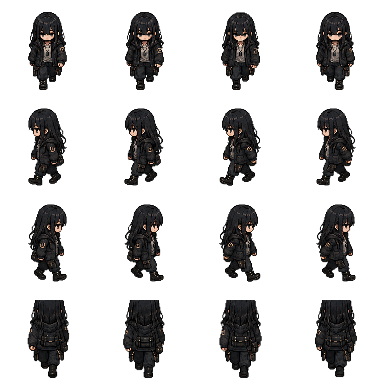
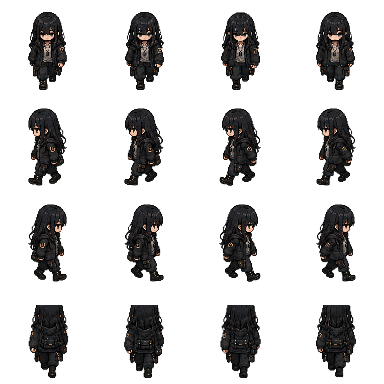
fix: scale back-facing YUI frames for headroom

diff --git a/tools/process_yui_sprite_sheet.py b/tools/process_yui_sprite_sheet.py
@@ -20,6 +20,7 @@ ALPHA_THRESHOLD = 12
 BBOX_ALPHA_THRESHOLD = 48
 CROP_PADDING = 4
 BACK_MIN_HEADROOM = 4
+BACK_ROW_SCALE = 0.94
 
 ROW_DOWN = 0
 ROW_LEFT = 1
@@ -133,13 +134,38 @@ def fit_back_frame(frame: Image.Image) -> Image.Image:
     return canvas
 
 
+def shrink_back_frame(frame: Image.Image) -> Image.Image:
+    # Scale the completed 96x96 back-facing frame as a whole. This avoids
+    # re-cropping the silhouette while adding runtime headroom.
+    bbox = get_visible_bbox(frame, ALPHA_THRESHOLD)
+    if bbox is None:
+        return frame
+
+    target_width = max(1, round(FRAME_SIZE * BACK_ROW_SCALE))
+    target_height = max(1, round(FRAME_SIZE * BACK_ROW_SCALE))
+    resized = frame.resize((target_width, target_height), Image.Resampling.NEAREST)
+
+    original_bottom = bbox[3] - 1
+    resized_bbox = get_visible_bbox(resized, ALPHA_THRESHOLD)
+    if resized_bbox is None:
+        return frame
+
+    resized_bottom = resized_bbox[3] - 1
+    x = round(FRAME_SIZE * 0.5 - target_width * 0.5)
+    y = original_bottom - resized_bottom
+
+    canvas = Image.new("RGBA", (FRAME_SIZE, FRAME_SIZE), (0, 0, 0, 0))
+    alpha_composite_clipped(canvas, resized, (x, y))
+    return canvas
+
+
 def fit_frames(frames: list[Image.Image]) -> list[Image.Image]:
     bboxes: list[tuple[int, int, int, int] | None] = [get_visible_bbox(frame) for frame in frames]
     fitted_frames: list[Image.Image] = []
 
     for index, frame in enumerate(frames):
         if index // GRID_COLUMNS == ROW_UP:
-            fitted_frames.append(fit_back_frame(frame))
+            fitted_frames.append(shrink_back_frame(fit_back_frame(frame)))
             continue
 
         bbox = bboxes[index]

diff --git a/docs/PROJECT_STATUS.md b/docs/PROJECT_STATUS.md
@@ -5,9 +5,9 @@
 - Project: `CONCENT / 전력 부족의 시대`
 - Main target: Godot project under `godot/`
 - Web prototype: React/Vite/Phaser prototype is reference only
-- Current phase: Yui back-facing silhouette preservation
+- Current phase: Yui back-facing frame scale adjustment
 - Current branch: `main`
-- Latest commit at task start: `613857e fix: repair yui up-direction headroom`
+- Latest commit at task start: `cc77802 fix: preserve full back-facing YUI sprite silhouette`
 
 ## Latest Completed Work
 
@@ -87,10 +87,17 @@
   - Preserved the original back-row alpha channel instead of running alpha cleanup or bbox crop on those source cells
   - Confirmed front, left, and right rows are pixel-identical to the previous committed sheet
   - Saved up-direction idle and walk validation screenshots under `docs/validation/`
+- Scaled only the completed up/back-facing Yui frames for runtime headroom:
+  - Kept the active source as `docs/reference/yui-1.png`
+  - Preserved the existing `96x96` canvas, runtime display scale, map, UI, object placement, and interaction logic
+  - Scaled only the fourth-row completed frames to `94%` inside the same canvas
+  - Kept the back-row foot baseline at visible bottom `89`
+  - Confirmed front, left, and right rows are pixel-identical to the previous committed sheet
+  - Updated up-direction idle and walk validation screenshots under `docs/validation/`
 
 ## Current Goal
 
-- Keep Yui's active player sprite silhouette intact in the up/back direction without changing map, UI, object placement, or interaction logic
+- Keep Yui's active player sprite readable in the up/back direction without changing map, UI, object placement, interaction logic, or other direction frames
 - Keep Godot source assets reproducible by tracking source-side `.import` and necessary `.uid` metadata
 - Continue focusing active Godot work on DAY 1 MVP readability, outlet/power decisions, and reference-aligned apartment presentation
 
@@ -159,6 +166,18 @@
   - resized fixed-grid cells are `102x102`, `103x103`, `103x103`, and `102x102`
 - `Godot_v4.5.1-stable_win64_console.exe --headless --path . --import --quit`: completed successfully after the up-direction preservation pass
 - `Godot_v4.5.1-stable_win64_console.exe --path . --script %TEMP%/capture_yui_up_headroom.gd --resolution 1280x720`: completed successfully and saved up-direction idle/walk screenshots
+- `git status --short --branch`: confirmed current branch is `main` at this task start
+- `git rev-parse --short HEAD`: recorded task-start commit `cc77802`
+- `git fetch origin`: updated remote refs before this task
+- `git log --oneline HEAD..origin/main`: confirmed no new remote commits before editing
+- `tools/process_yui_sprite_sheet.py`: regenerated `godot/assets/art/characters/yui/yui_walk_4dir_rgba.png` from `docs/reference/yui-1.png` with a back-row-only `94%` frame scale adjustment
+- Automated pixel comparison against `HEAD:godot/assets/art/characters/yui/yui_walk_4dir_rgba.png`: confirmed front, left, and right rows were unchanged; only the back row changed
+- Automated frame inspection after the back-row scale pass:
+  - front, left, and right frames remain unchanged at visible top `12` and bottom `89`
+  - back/up frames now have visible top `17`, bottom `89`, and height `73`
+  - x center remains near `48`
+- `Godot_v4.5.1-stable_win64_console.exe --headless --path . --import --quit`: completed successfully after the back-row scale pass
+- `Godot_v4.5.1-stable_win64_console.exe --path . --script %TEMP%/capture_yui_up_headroom.gd --resolution 1280x720`: completed successfully and updated up-direction idle/walk screenshots
 - Read `AGENTS.md` and the existing project tracking docs requested by the workflow update
 - Opened and inspected `docs/reference/yui-1.png` before editing
 - `docs/reference/yui-1.png`: `1254x1254`, RGBA, 4x4 frame sheet
@@ -180,7 +199,7 @@
 - The first DAY 1 power loop is implemented, but it still needs in-editor Godot playtesting.
 - Outlet connection now gates object use, but drag/connect/disconnect behavior still needs manual playtesting in Godot.
 - The direct reference map now supplies the visible apartment background; invisible interaction and collision overlays still need manual alignment review.
-- Yui now uses the processed `yui-1.png` source sheet with normalized frame size, foot baseline, side-view scale, and fixed-grid preserved up/back source cells. Automated screenshots confirm the up idle and up walk frames render without the head touching the frame edge, but manual movement input should still be checked in-editor.
+- Yui now uses the processed `yui-1.png` source sheet with normalized frame size, foot baseline, side-view scale, fixed-grid preserved up/back source cells, and a back-row-only `94%` scale adjustment for headroom. Automated screenshots confirm the up idle and up walk frames render without the head touching the frame edge, but manual movement input should still be checked in-editor.
 - The actual reference map is drawn directly as the apartment background; interaction/collision overlays need manual alignment review against the art.
 - UI panel PNGs are used as low-alpha decorative backplates because text readability remains the priority.
 - Direct map background placement, Yui display, interaction hotspots, collision blockers, and prompt positions need screenshot-based review in the Godot editor.

diff --git a/docs/ASSET_APPLICATION_NOTES.md b/docs/ASSET_APPLICATION_NOTES.md
@@ -24,6 +24,10 @@ This pass updates only the generated active Yui walk sheet from `docs/reference/
 
 This pass updates only the back-facing row of the generated active Yui walk sheet. It keeps the `docs/reference/yui-1.png` fourth-row fixed-grid cells intact, preserves their original alpha channel, and does not change the map background, object placement, UI panels, interaction logic, power logic, day/result systems, runtime display scale, or the front/left/right frame pixels.
 
+## YUI Back Row Scale Adjustment Pass
+
+This pass updates only the completed back-facing `96x96` frames by scaling them to `94%` inside the same canvas. It keeps the foot baseline fixed, adds more top headroom, and does not change the map background, object placement, UI panels, interaction logic, power logic, day/result systems, runtime display scale, or the front/left/right frame pixels.
+
 ## Applied PNGs
 
 - `godot/assets/art/maps/apartment/apartment_map_reference.png`
@@ -109,6 +113,7 @@ Some incoming P0 PNG files had accidental double-dot filenames. They were rename
 - The active generated sheet now fits all 16 frames to a shared visible height of `78px`, a shared foot baseline at `y = 90`, and a centered x-axis near `x = 48`.
 - The right-facing row is generated by mirroring the left-facing row because the right-facing source row has inconsistent crop extent and made Yui appear smaller in-game.
 - The back-facing row is now fitted from the original fixed-grid fourth-row cells without alpha-normalizing or bbox-cropping those source cells, so faint hair pixels are preserved while the existing foot baseline remains unchanged.
+- The completed back-facing frames are then scaled to `94%` and re-anchored to the same foot baseline, moving the visible top from `12` to `17` while keeping the visible bottom at `89`.
 - The older `docs/reference/YUI.png` / `yui_source_sheet.png` automatic checkerboard cutout is no longer used for the active player display.
 - P0 object images are large source PNGs, so current implementation scales them inside the existing interactable draw rects.
 - Yui player art now uses `yui_walk_4dir_rgba.png` through `AnimatedSprite2D` / `AtlasTexture` frames instead of generated placeholder drawing.
@@ -143,4 +148,4 @@ Some incoming P0 PNG files had accidental double-dot filenames. They were rename
   - Input: `docs/reference/yui-1.png`
   - Source copy: `godot/assets/art/characters/yui/yui_1_source_sheet.png`
   - Output: `godot/assets/art/characters/yui/yui_walk_4dir_rgba.png`
-  - Purpose: normalizes the non-back rows of the `yui-1` 4x4 RGBA sheet into matching `96x96` cells, keeps all frames on a shared foot baseline, mirrors the left row for the right-facing row to avoid the bad source crop, and fits the back-facing row from intact fixed-grid source cells without redrawing or alpha cleanup.
+  - Purpose: normalizes the non-back rows of the `yui-1` 4x4 RGBA sheet into matching `96x96` cells, keeps all frames on a shared foot baseline, mirrors the left row for the right-facing row to avoid the bad source crop, fits the back-facing row from intact fixed-grid source cells without redrawing or alpha cleanup, and scales only the completed back-facing frames to `94%` for runtime headroom.

diff --git a/docs/YUI_ANIMATION_NOTES.md b/docs/YUI_ANIMATION_NOTES.md
@@ -28,6 +28,10 @@ This pass regenerates the active `yui-1` walk sheet to fix directional alignment
 
 This pass preserves the original up/back-facing row silhouette from `docs/reference/yui-1.png` by fitting the fixed-grid fourth-row cells without alpha cleanup or bbox cropping. It preserves movement, collision, proximity interaction, power logic, map layout, UI panels, multitap logic, runtime display scale, and the front/left/right frame pixels.
 
+## YUI Back Row Scale Adjustment Pass
+
+This pass scales only the completed up/back-facing `96x96` frames to `94%` inside the same frame canvas. It preserves movement, collision, proximity interaction, power logic, map layout, UI panels, multitap logic, runtime display scale, foot baseline, and the front/left/right frame pixels.
+
 ## Applied Idle PNGs
 
 - `godot/assets/art/characters/yui/idle/yui_idle_down.png`
@@ -114,7 +118,7 @@ This pass preserves the original up/back-facing row silhouette from `docs/refere
 - Up-direction silhouette screenshots saved at:
   - `docs/validation/yui_up_idle_headroom.png`
   - `docs/validation/yui_up_walk_headroom.png`
-- Automated frame inspection confirms all 16 generated frames use visible height `78`, bottom baseline `89`, and center x near `48`.
+- Automated frame inspection confirms the back-facing row now uses visible top `17`, bottom baseline `89`, height `73`, and center x near `48`.
 - Automated pixel comparison confirms front, left, and right rows are unchanged from the previous committed sheet; only the up/back-facing row changed.
 - Manual movement input should still be checked in-editor for all four directions because the automated screenshots force idle direction animations.
 - No 8-direction animation exists; diagonal movement intentionally resolves to the stronger cardinal axis.
@@ -129,4 +133,5 @@ This pass preserves the original up/back-facing row silhouette from `docs/refere
 - Preserves crop padding around hair, lower body, and shoes so the back-facing head and feet do not clip.
 - Mirrors the left-facing source row for the right-facing row because the source right row has inconsistent crop extent and made that direction appear smaller.
 - Fits the back-facing row from intact fixed-grid source cells and preserves the original alpha channel instead of redrawing the head top or removing faint hair pixels.
+- Scales only the completed back-facing frames to `94%` and re-anchors them to the previous foot baseline.
 - Preserves the original source character art instead of redrawing or replacing Yui.
